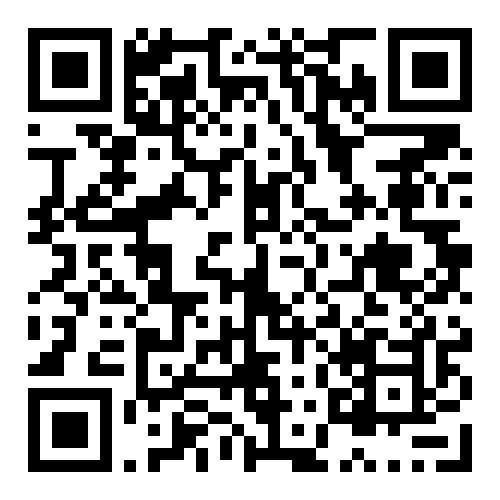
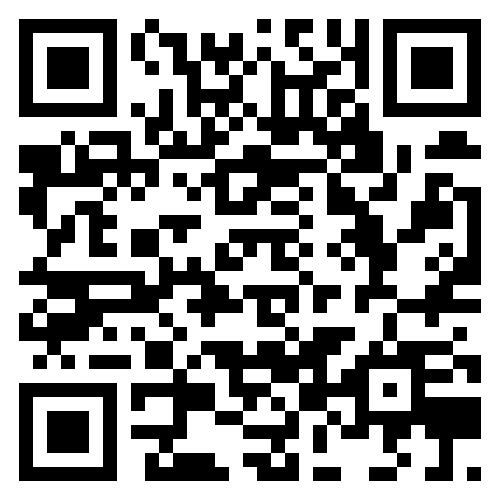
replace to ymm-oss

diff --git a/book/manuscripts/preface.md b/book/manuscripts/preface.md
@@ -42,7 +42,7 @@ class: exclude-hashira
 そこで、本誌の製作に利用している執筆テンプレートを公開しました。執筆テンプレートは GitHub で Template Repository として管理しています。次の URL から、あなたの執筆プロジェクトを作成できます。
 
 ```url
-https://github.com/yumemi-inc/daigirin-template
+https://github.com/ymm-oss/daigirin-template
 ```
 
 ![執筆テンプレートの GitHub URL](./images_preface/qr-code-daigirin-template-url.png)
